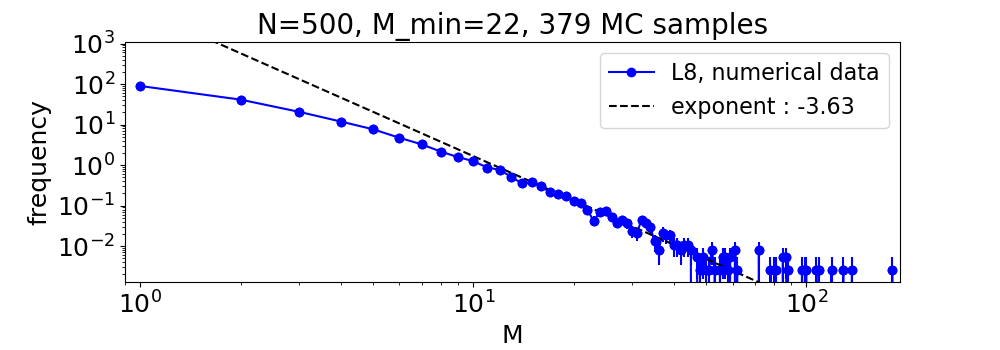
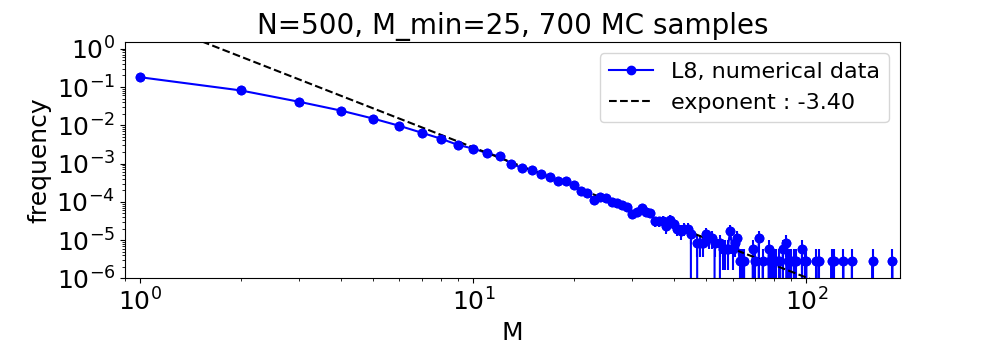
code revised

diff --git a/complete_graph/cluster_size/cluster_size_dist.py b/complete_graph/cluster_size/cluster_size_dist.py
@@ -146,8 +146,11 @@ a1 = res1.x; alpha1 = a1[0]
 #a2 = res2.x; alpha2 = a2[0]
 alpha2 = alpha1 - 1
 print("a1 = ", alpha1)
-print("a2 = ", alpha2)
+print("a2 = \n", alpha2)
 c_dist_err = np.std(np.array(c_dist_tot),0)/np.sqrt(n_samples)
+
+normalization_check = sum(np.arange(1,N+1,1)*c_dist)
+print("sum_k k*c_k = ", normalization_check)
 
 #print("M_sl = ", x_data[sl])
 #print("M_sl_cumul = ", x_arr[x_data[sl]-1])
@@ -162,9 +165,9 @@ c_dist_err = np.std(np.array(c_dist_tot),0)/np.sqrt(n_samples)
 C1 = np.sum(c_dist[x_min-1 : ])/zeta(alpha1, x_min)
 C2 = np.sum(c_dist[x_min-1 : ])*np.power((1/x_min), -alpha2)
 plt.figure(figsize=(10,3.5))
-plt.plot(x_arr, c_dist, label="L{}, numerical data".format(rule_num), marker = 'o', color='blue')
-plt.errorbar(x_arr, c_dist, yerr= c_dist_err, fmt = 'o', color='blue')
-plt.plot(x_arr, C1*np.power(x_arr, -alpha1), label="exponent : {:.2f}".format(-alpha1), color='black', linestyle = 'dashed')
+plt.plot(x_arr, c_dist/N, label="L{}, numerical data".format(rule_num), marker = 'o', color='blue')
+plt.errorbar(x_arr, c_dist/N, yerr= c_dist_err/N, fmt = 'o', color='blue')
+plt.plot(x_arr, C1*np.power(x_arr, -alpha1)/N, label="exponent : {:.2f}".format(-alpha1), color='black', linestyle = 'dashed')
 plt.legend(fontsize=16)
 plt.xscale('log')
 plt.yscale('log')
@@ -172,7 +175,7 @@ plt.yscale('log')
 plt.xticks(fontsize=18)
 plt.yticks(fontsize=18)
 plt.xlim(0.9, idx+10)
-plt.ylim((1/n_samples)/2 ,max(list(c_dist))+1000)
+plt.ylim(10**(-6), 1.5)
 plt.title("N={}, M_min={}, {} MC samples".format(N, x_min, n_samples), fontsize=20)
 #plt.xticks(x_arr)
 plt.xlabel('M', fontsize=18)
@@ -182,9 +185,9 @@ plt.show()
 plt.clf()
 
 plt.figure(figsize=(10,3.5))
-plt.plot(x_arr, cumul_dist, label="L{}, numerical data, F(m <= X)".format(rule_num), marker = 'o', color='blue')
-plt.errorbar(x_arr, cumul_dist, yerr= c_dist_err, color='blue')
-plt.plot(x_arr, C2*np.power(x_arr, -alpha2), label="exponent : {:.2f}".format(-alpha2), color='black', linestyle ='dashed')
+plt.plot(x_arr, cumul_dist/N, label="L{}, numerical data, F(M <= X)".format(rule_num), marker = 'o', color='blue')
+plt.errorbar(x_arr, cumul_dist/N, yerr= c_dist_err/N, color='blue')
+plt.plot(x_arr, C2*np.power(x_arr, -alpha2)/N, label="exponent : {:.2f}".format(-alpha2), color='black', linestyle ='dashed')
 plt.legend(fontsize=16)
 plt.xscale('log')
 plt.yscale('log')
@@ -192,7 +195,7 @@ plt.yscale('log')
 plt.xticks(fontsize=18)
 plt.yticks(fontsize=18)
 plt.xlim(0.9, idx+10)
-plt.ylim((1/n_samples)/2,max(list(cumul_dist))+1000)
+plt.ylim(10**(-6), 1.5)
 plt.title("N={}, M_min={}, {} MC samples".format(N, x_min, n_samples), fontsize=20)
 #plt.xticks(x_arr)
 plt.xlabel('M', fontsize=18)
